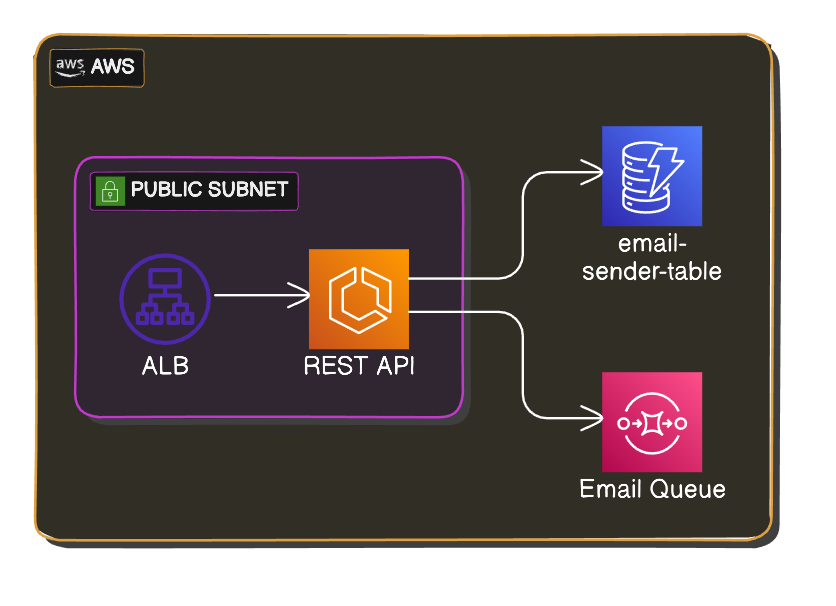
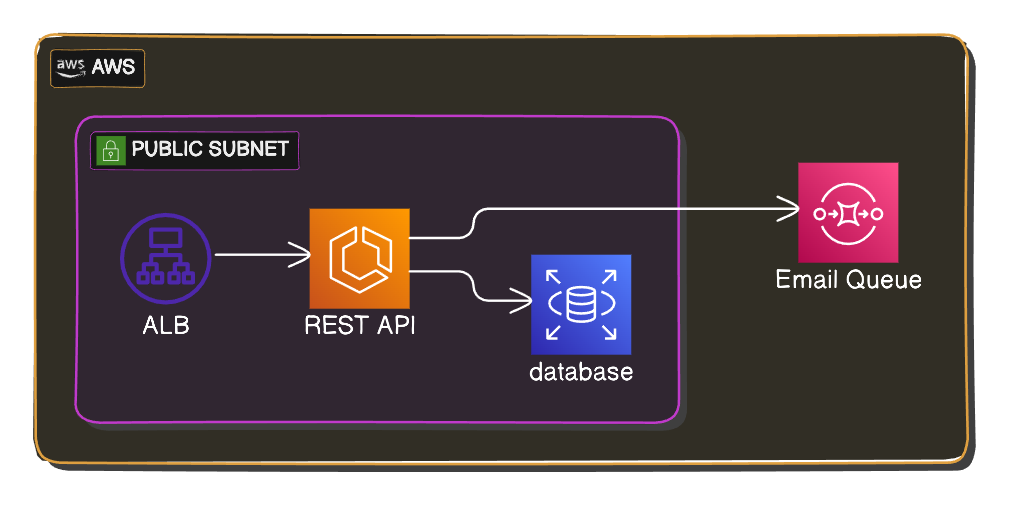
Update docs for restapi

Changed region(s): [[0.0311, 0.0311, 0.9641, 0.9339]]

diff --git a/docs/REST API/stack.md b/docs/REST API/stack.md
@@ -28,7 +28,7 @@ The tools used in the development process include:
 
 ## Architecture
 
-The project follows a **[layered architecture](https://cs.uwaterloo.ca/~m2nagapp/courses/CS446/1195/Arch_Design_Activity/Layered.pdf)** approach, divided into three layers: **Setup, Infrastructure, and Domain**.
+The project follows a **[layered architecture](https://cs.uwaterloo.ca/~m2nagapp/courses/CS446/1195/Arch_Design_Activity/Layered.pdf)** approach, divided into four layers: **Setup, Database, Infrastructure, and Domain**.
 
 ### Setup
 
@@ -40,6 +40,15 @@ Key components include:
 - **Logger**
 - **Dependency Injector**
 - **Blueprints Registration**
+
+### Database
+
+This layer contains components responsible for persistence actions.
+
+Key components include:
+- **Models**
+- **Database client**
+- **DAOs (Data Access Object)**
 
 ### Infrastructure
 
@@ -58,6 +67,81 @@ The Domain layer handles the actual business logic for specific resources. Compo
 Current components:
 - **Handlers** tied directly to endpoint resources.
 
+## Example
+
+To help illustrate how the components are structured in this project, let's take a look at the user's registration implementation:
+
+### User Resource (Infrastructure)
+
+This component handles the low-level request functionality, ensuring requests are properly received, validated, and parsed. It also handles errors raised by upper-level components.
+
+:::note
+The **most important aspect** of this component is that it doesn't need to know or care about the business logic behind the resource. It acts as a "tour guide" for incoming requests, directing them appropriately but not controlling the internal workings.
+:::
+
+```python
+@bp.route("/register")
+class Register(BaseResource):
+
+    ...
+
+    @bp.arguments(UserSchema)
+    def post(self, user_data):
+        try:
+            self.handler.create_user(user_data=user_data)
+            return {"message": "User created successfully"}
+        except UserAlreadyExists as error:
+            return self.handle_error(409, error)
+    ...
+```
+
+### User Handler (Domain)
+
+This component contains the business logic for the request, providing a high-level, decoupled view of the target logic.
+
+:::note
+The most important aspect of this component is its lack of deep coupling with low-level infrastructure resources. It acts as an orchestrator, knowing which services to call to achieve the desired outcome.
+:::
+
+```python
+class UserHandler:
+
+    ...
+
+    def create_user(self, user_data):
+        user = self.user_service.create_user(user_data)
+        self.hangman_service.get_or_create_score(user_id=user.id)
+    ...
+```
+In the case of **user registration**, the `UserHandler` calls the `UserService` to register the user and the `HangmanService` to create an empty score.
+
+### User Service (Infrastructure)
+
+This component performs the heavy lifting, aggregating low-level actions into high-level methods.
+
+:::note
+The most important aspect of this component is its specific focus on a single resource. It does not implement unrelated functions, ensuring changes to business requirements do not affect its scope.
+:::
+
+```python
+class UserService:
+    
+    ...
+
+    def create_user(self, user_data):
+        if UserModel.query.filter(UserModel.email == user_data["email"]).first():
+            raise UserAlreadyExists("User already exists")
+        user = UserModel(
+            name=user_data["name"],
+            email=user_data["email"],
+            password=pbkdf2_sha256.hash(user_data["password"]),
+        )
+        self.db.session.add(user)
+        self.db.session.commit()
+        return user
+    ...
+```
+
 ### Conclusion
 
 This layered architecture ensures modularity and separation of concerns. It allows for significant changes without affecting core functionality, such as implementing OAuth, transitioning blueprints to a class-based approach, and adding dependency injection.
@@ -68,4 +152,4 @@ This layered architecture ensures modularity and separation of concerns. It allo
 - It heavily employs **dependency injection**.
 - Most third-party libraries are wrapped inside a **service** or **client**.
   - Future plans include implementing interfaces to enforce the **Dependency Inversion Principle**.
-:::
+    :::

diff --git a/docs/REST API/features.md b/docs/REST API/features.md
@@ -19,6 +19,9 @@ By accessing the root route of the API (https://itsadeadh2.com), you will be red
 
 ## Send Contact Info
 
+:::warning[email required]
+:::
+
 The `/api/contact` endpoint allows users to submit an email address and receive my contact information via email. It also stores the provided email in a DynamoDB database to keep track of who requested my contact info.
 
 :::info
@@ -29,8 +32,13 @@ Future Plans:
 - No email required if the user is **logged in**.
   :::
 
-## Login/Register with Google
+## Register/Login/Logout
 
-The API enables users to register or log in with Google. This functionality is designed primarily for use with the **[frontend](../commodore-landing.md)**.
+The api allows users to register, log in and log out.
+By doing so you'll get access to some additional functionalities such as the games
 
-Currently, there isn't a compelling reason for users to register or log in, but I plan to add features that will require user registration.
+## Hangman 
+:::warning[registered users only]
+:::
+By using the resources on the `/api/games/hangman` endpoint you can play a quick game of [hangman](https://en.wikipedia.org/wiki/Hangman_(game)) on the api.
+And it also stores your scores on a leaderboard.

diff --git a/docs/REST API/infrastructure.md b/docs/REST API/infrastructure.md
@@ -14,7 +14,7 @@ This project is hosted on **AWS**, utilizing the following resources:
 - **Elastic Container Registry (ECR)**: Private Docker registry.
 - **Elastic Container Service (ECS)**: Container management.
 - **CloudWatch**: Logging service.
-- **DynamoDB**: Database for persistence.
+- **AWS RDS**: Database for persistence (PostgreSQL).
 - **Elastic Load Balancer (ELB)**: Routing, load balancing, and SSL termination.
 - **VPC and Public Subnet**: Networking components.
 - **Route 53**: Domain management service.
@@ -23,11 +23,15 @@ All these resources are automatically created and configured using a set of **Cl
 
 ![Infrastructure](./img/rest_api_infra.png)
 
+:::note
+I **chose** not to deploy the database into a private subnet to save costs on **AWS Nat Gateways**.  
+It is not ideal, but it wasn't an uninformed decision.
+  :::
 ## CI/CD
 
 The CI/CD pipeline for this project is managed by **GitHub Actions**. It handles:
 
 - Testing
-- Linting
+- Lint checking
 - Building
 - Deploying the infrastructure and application to AWS
